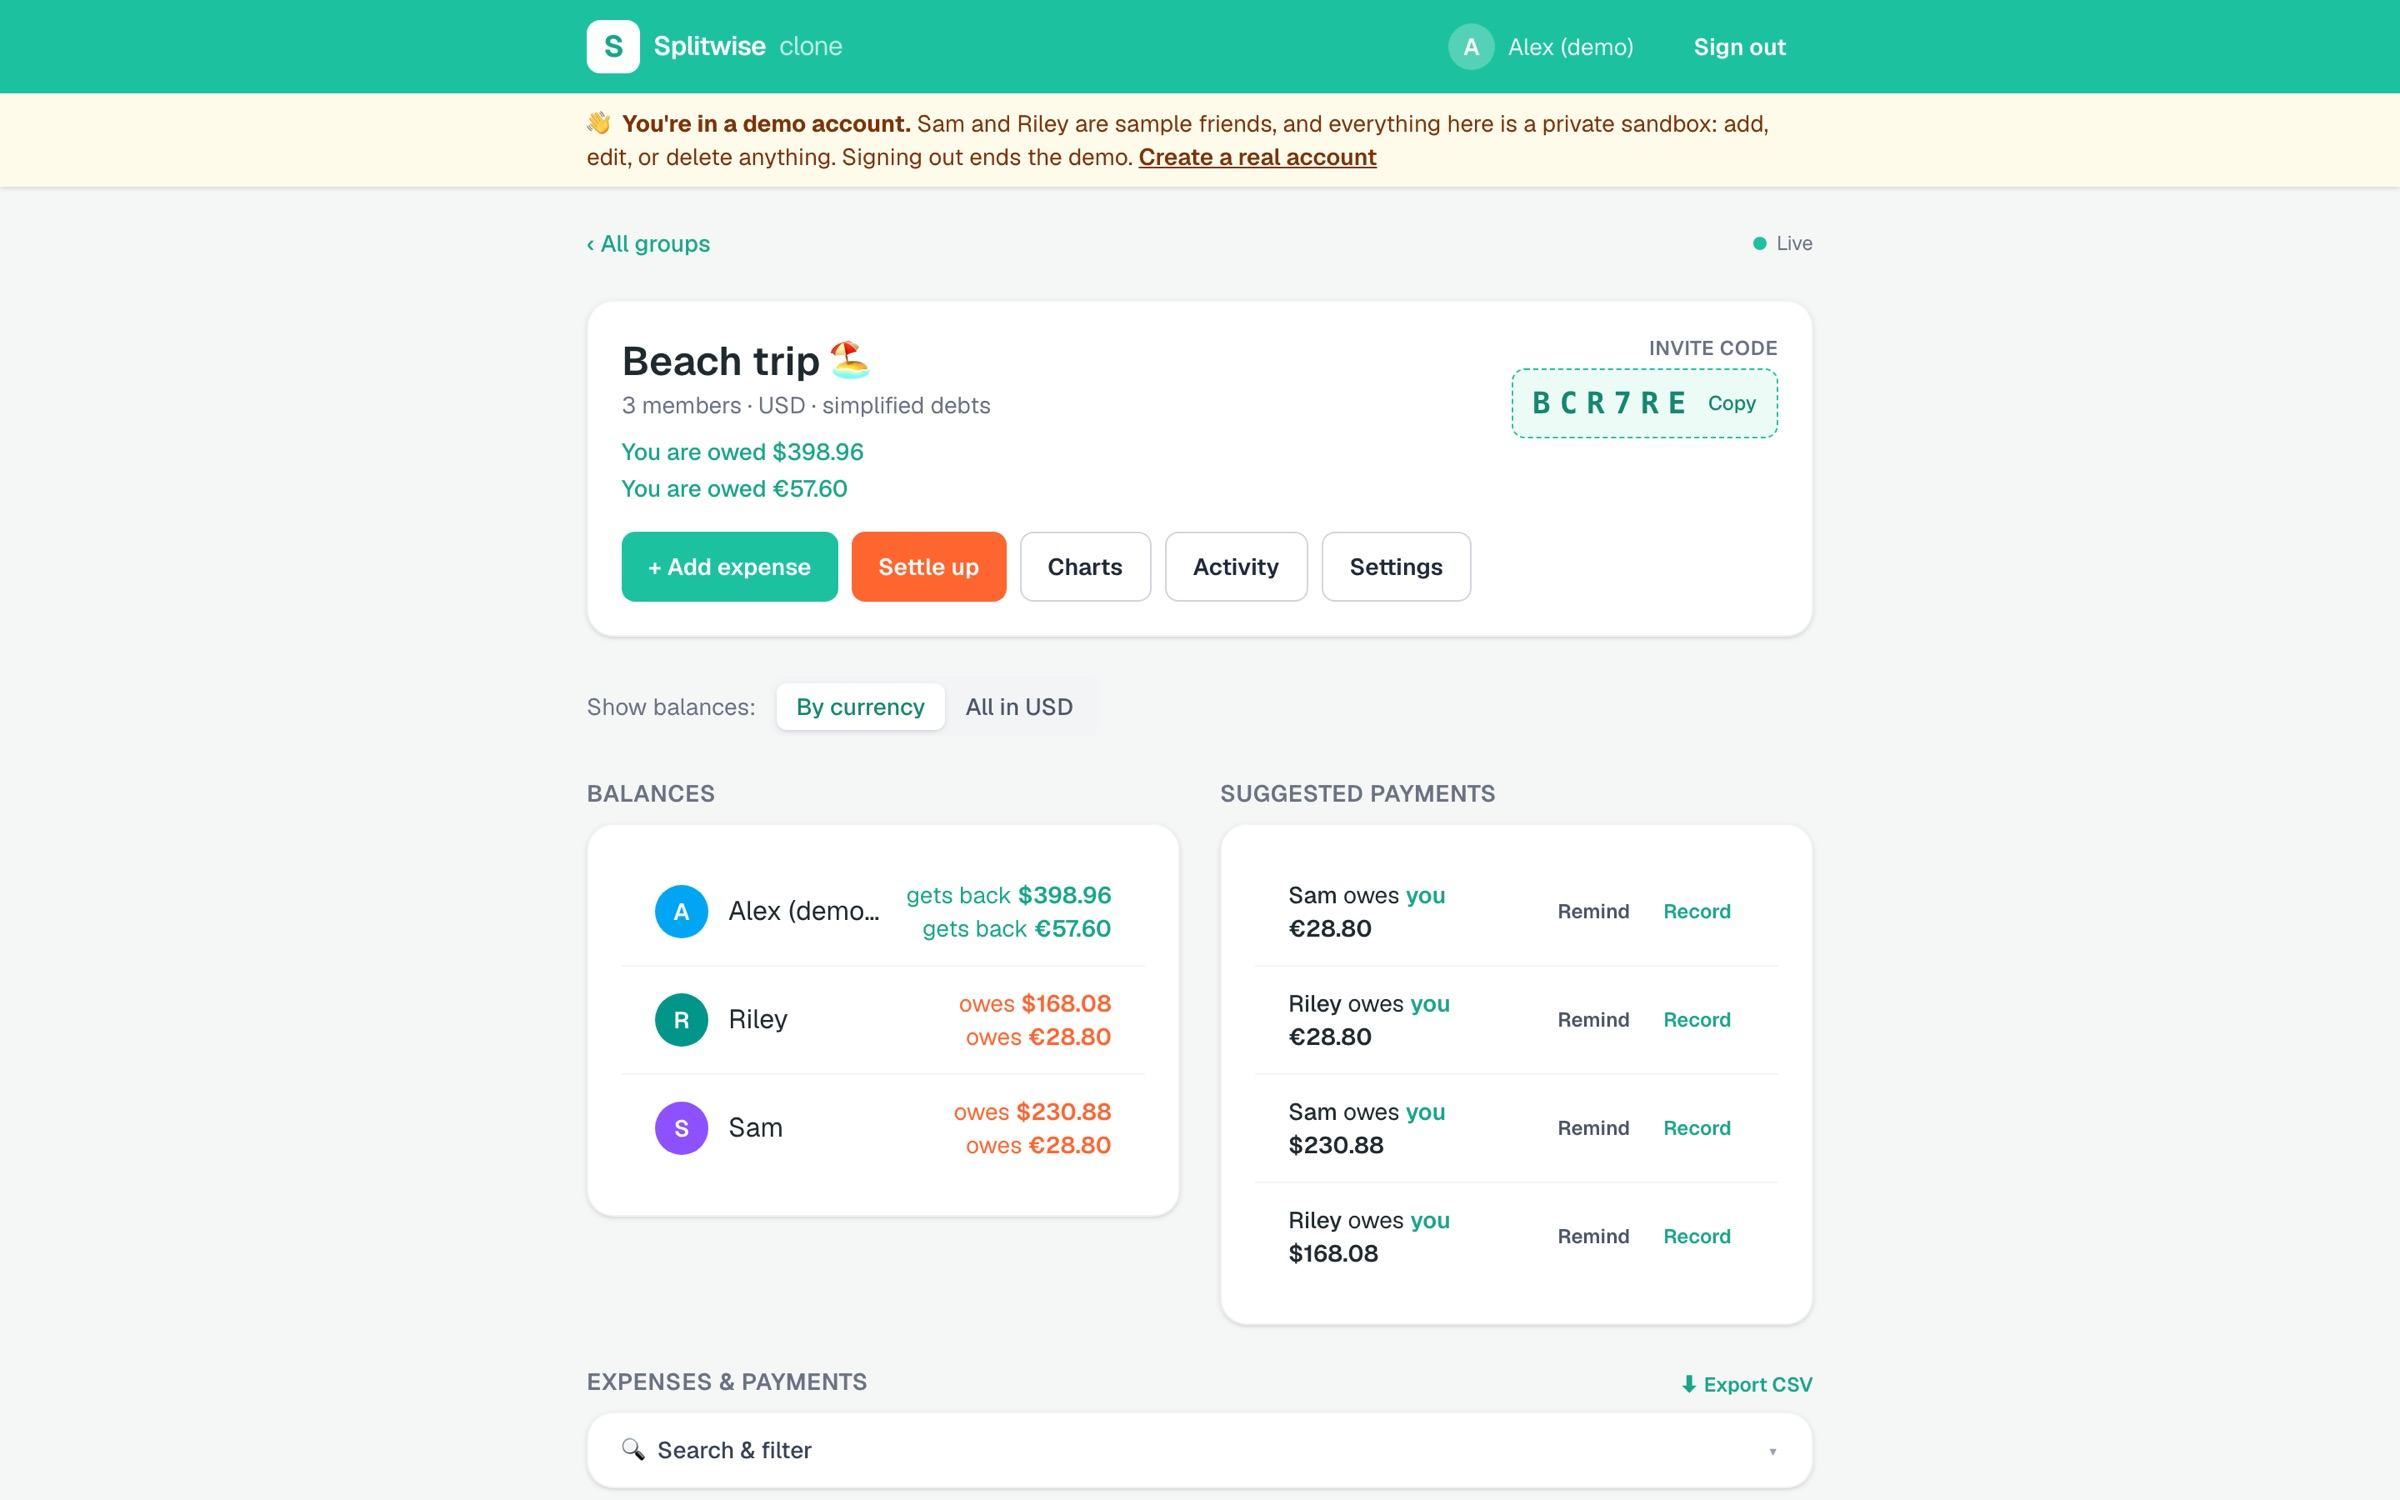
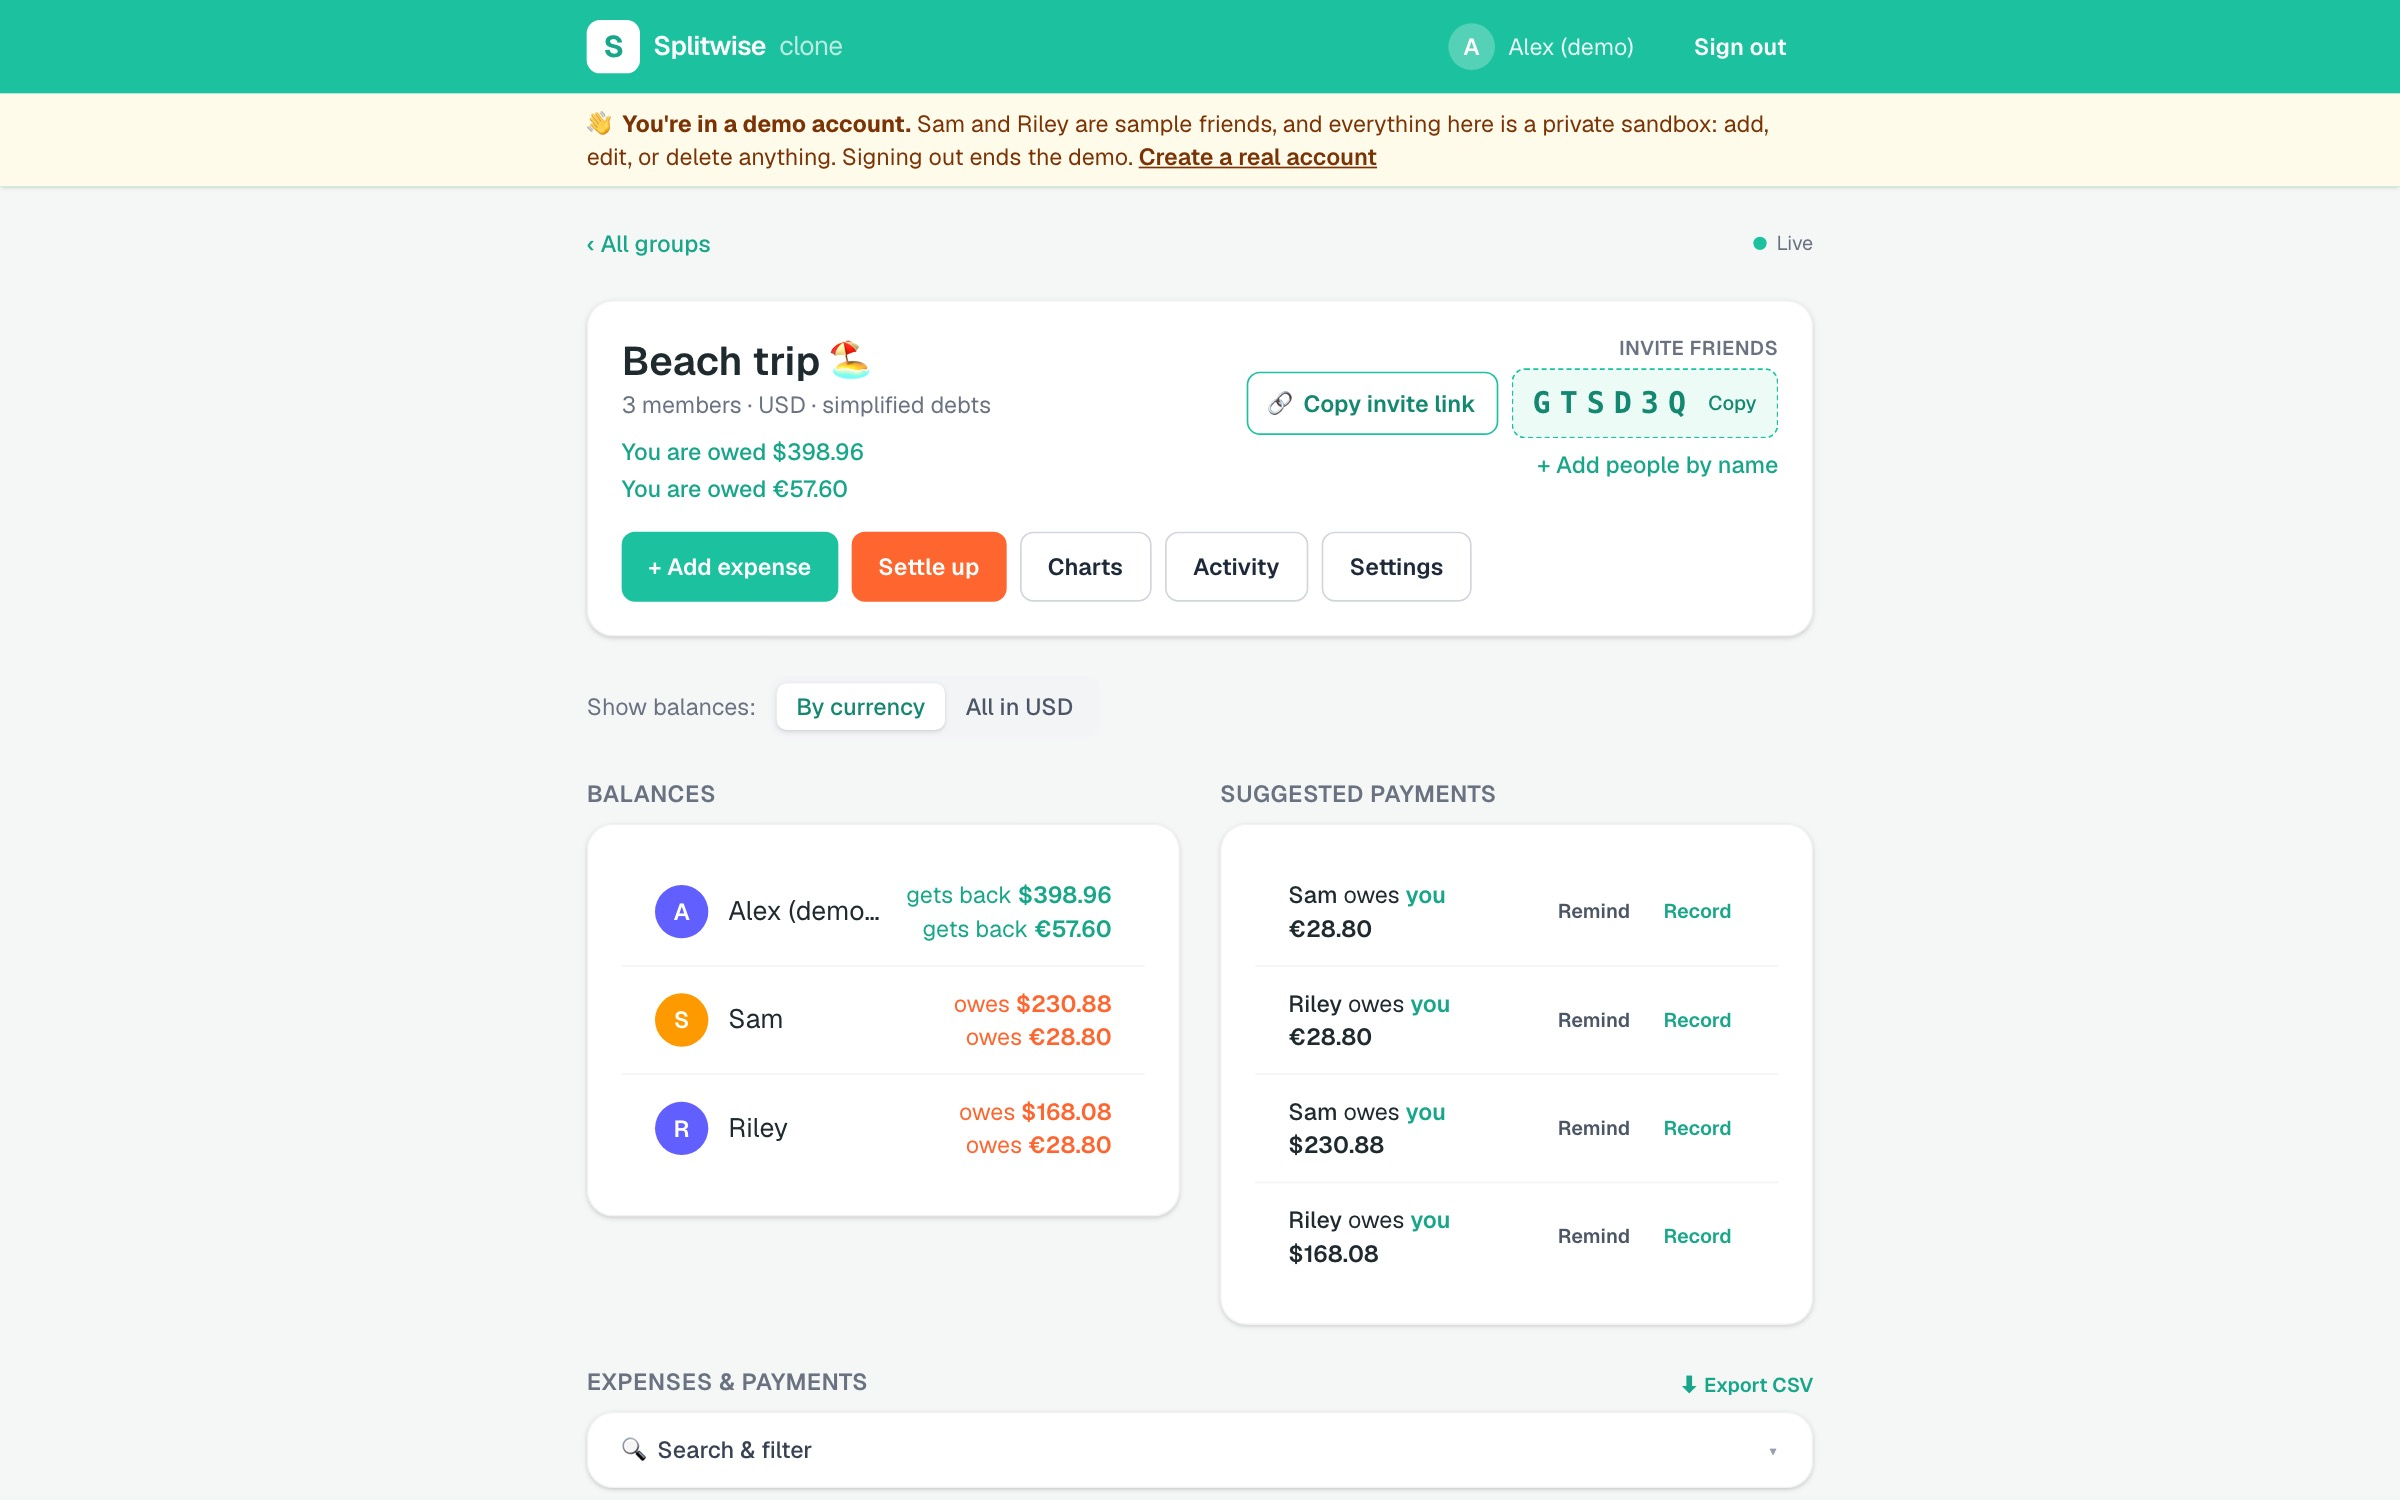
Panels fit small laptops; OnBoard status; new Splitwise shot
- fit(): when the text column is too tall for a short window, widen it (3fr/2fr) before scaling down;
  the last-resort screenshot shrink now stops when it doesn't help (no more thumbnail + empty gap)
- Thinner dark margin around panels on short laptop windows (16px at 660px tall, 40px at 800px+)
- OnBoard "In progress": working on upgrades internally before releasing more broadly
- Splitwise group screenshot retaken from the live demo (shows Copy invite link); caption updated

Claude-Session: https://claude.ai/code/session_01EretfYTuGCtQcacVK1ssih

diff --git a/app/clickable-card.tsx b/app/clickable-card.tsx
@@ -32,6 +32,7 @@ export function ClickableCard({
     if (!el) return;
     el.style.removeProperty("--fit-h");
     el.style.zoom = "";
+    delete el.dataset.wide;
     if (window.innerWidth < 1024) return;
     const over = () => el.scrollHeight > el.clientHeight + 1;
     const setH = (h: number) => el.style.setProperty("--fit-h", `${h}px`);
@@ -54,19 +55,42 @@ export function ClickableCard({
       }
       return { h, fits: !over(), extra: el.scrollHeight - el.clientHeight };
     };
-    const right = shrink("right");
-    const left = shrink("left");
-    const useLeft =
-      left.fits && right.fits ? left.h > right.h : left.fits ? true : right.fits ? false : left.extra < right.extra;
-    shrink(useLeft ? "left" : "right");
+    const place = () => {
+      const right = shrink("right");
+      const left = shrink("left");
+      const useLeft =
+        left.fits && right.fits ? left.h > right.h : left.fits ? true : right.fits ? false : left.extra < right.extra;
+      shrink(useLeft ? "left" : "right");
+    };
+    place();
+    // Short windows: if the text column is still too tall, widen it (40% instead of 30%, so fewer lines) and place
+    // again. Keep it only if that helps; panels that already fit never get here and keep their normal look.
+    if (over()) {
+      const extra = el.scrollHeight - el.clientHeight;
+      el.dataset.wide = "1";
+      place();
+      if (el.scrollHeight - el.clientHeight >= extra) {
+        delete el.dataset.wide;
+        place();
+      }
+    }
     let h = parseInt(el.style.getPropertyValue("--fit-h"));
-    // Short screens: scale the whole panel down a little, then shrink the screenshot further if still needed.
+    // Then scale the whole panel down a little, and as a last resort shrink the screenshot, but only while that
+    // actually helps (when the text column is the tall one, a smaller screenshot just leaves an empty gap).
     let z = 1;
     while (over() && z > 0.8) {
       z -= 0.025;
       el.style.zoom = String(z);
     }
-    while (over() && h > 160) setH((h -= 12));
+    while (over() && h > 160) {
+      const before = el.scrollHeight;
+      setH(h - 12);
+      if (el.scrollHeight >= before) {
+        setH(h);
+        break;
+      }
+      h -= 12;
+    }
   };
 
 
@@ -148,7 +172,8 @@ export function ClickableCard({
         >
           {/* The dark margin around the panel is a big target: clicking it closes the panel. */}
           <div
-            className="flex h-full w-full items-center justify-center p-2 sm:p-6 lg:px-16 lg:py-10"
+            // Laptops: the dark margin above/below the panel thins on short windows (40px at 800px tall, 16px at 660px).
+            className="flex h-full w-full items-center justify-center p-2 sm:p-6 lg:px-16 lg:py-[clamp(1rem,17.14dvh_-_97px,2.5rem)]"
             onClick={(e) => {
               if (e.target === e.currentTarget) close();
             }}

diff --git a/app/content.ts b/app/content.ts
@@ -67,7 +67,7 @@ export const projects: Project[] = [
     team: "Christopher Lee, Thanh Tran, Rita Dong, Javier Soto, Jedidiah Gabrielle Santos, and me",
     tools: ["React", "Gloo AI Studio", "Gemini", "Whisper"],
     links: [{ href: "https://gloo.com/ai/hackathon/2026-winners", label: "Hackathon winners" }],
-    next: ["Testing with missionaries and campus ministers."],
+    next: ["Working on upgrades internally before releasing more broadly."],
   },
   {
     title: "Frontline Squad",
@@ -137,7 +137,7 @@ export const projects: Project[] = [
     summary:
       "A working clone of Splitwise, the app for sharing costs. Free to use, and no money moves through it: it only keeps track of who owes whom. Start with just your name, add friends before they join, and invite them with a link. Or try the demo.",
     shots: [
-      desk("/projects/splitwise-group.jpg", "Splitwise clone group page with balances in two currencies and suggested payments (demo data)", "Group page", "Balances in two currencies and the fewest payments to settle up, with Remind and Record buttons."),
+      desk("/projects/splitwise-group.jpg", "Splitwise clone group page with a Copy invite link button, balances in two currencies and suggested payments (demo data)", "Group page", "Invite friends with a link, see balances in two currencies, and settle up in the fewest payments."),
       desk("/projects/splitwise-itemized.jpg", "Splitwise clone itemized grocery expense with each person's share (demo data)", "Itemized expense", "Split a bill item by item, with tax shared in proportion. Equal, exact, percent, and shares work too."),
       desk("/projects/splitwise-charts.jpg", "Splitwise clone spending charts by category and month (demo data)", "Spending charts", "Spending by category and by month, converted to one currency at today's rates."),
     ],

diff --git a/app/page.tsx b/app/page.tsx
@@ -187,7 +187,7 @@ function ProjectPanel({ p }: { p: Project }) {
         {p.award && <p className="font-medium text-accent max-sm:mt-0.5 max-sm:text-[0.9rem] max-sm:leading-snug">{p.award}</p>}
       </div>
 
-      <div className={`mt-5 grid gap-x-8 gap-y-5 max-sm:mt-3.5 max-sm:gap-y-3 ${visual ? "lg:grid-cols-[minmax(0,7fr)_minmax(0,3fr)] lg:grid-rows-[auto_1fr] lg:content-start" : "max-w-3xl"}`}>
+      <div className={`mt-5 grid gap-x-8 gap-y-5 max-sm:mt-3.5 max-sm:gap-y-3 ${visual ? "lg:grid-cols-[minmax(0,7fr)_minmax(0,3fr)] lg:group-data-[wide=1]/sheet:grid-cols-[minmax(0,3fr)_minmax(0,2fr)] lg:grid-rows-[auto_1fr] lg:content-start" : "max-w-3xl"}`}>
         {p.phones ? (
           <div className="lg:col-start-1 lg:row-span-2 lg:row-start-1 lg:group-data-[meta=left]/sheet:row-span-1">
             <Features shots={p.phones} />
